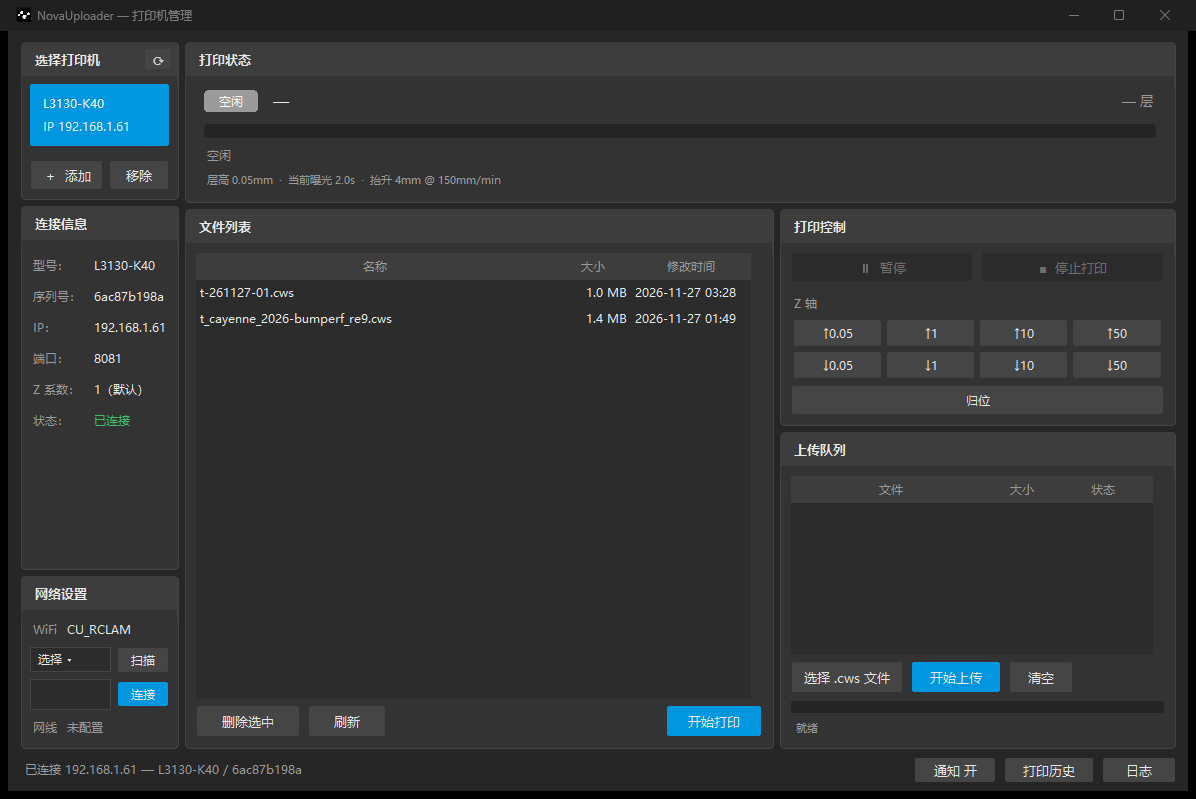
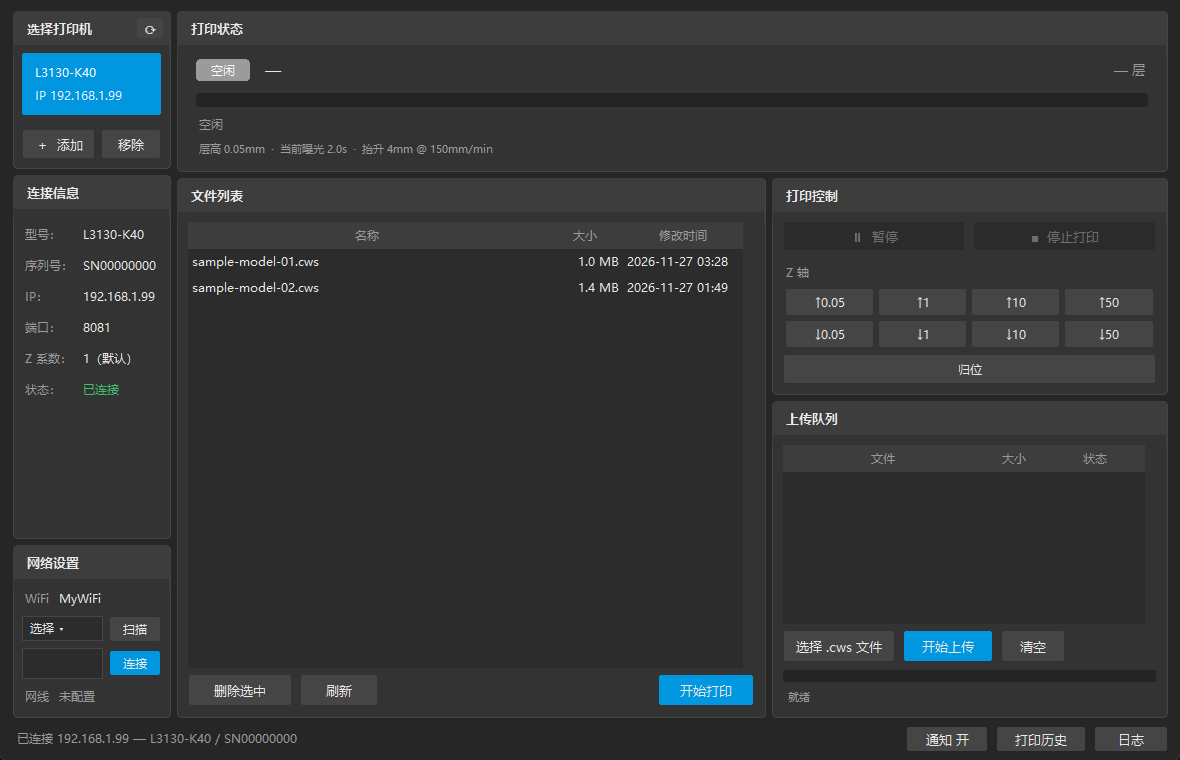
fix: 示例配置与截图改用占位 IP/序列号，避免仓库暴露内网信息（0.6.9）

diff --git a/pc/NovaUploader.py b/pc/NovaUploader.py
@@ -49,7 +49,7 @@ CONFIG_PATH_LEGACY = os.path.join(APP_DIR, "printers.json")
 HISTORY_PATH = os.path.join(DATA_DIR, "history.json")
 HISTORY_LIMIT = 300
 
-APP_VERSION = "0.6.8"
+APP_VERSION = "0.6.9"
 
 # NovaMaker 的图标（64x64 PNG，内嵌以免打包后还要带外部文件）
 ICON_PNG_B64 = (
@@ -100,9 +100,9 @@ def migrate_legacy_config():
 
 DEFAULT_CONFIG = {
     "printers": [
-        {"name": "Whale3 Pro (192.168.1.61)", "ip": "192.168.1.61", "port": 8081},
+        {"name": "我的打印机 (192.168.1.100)", "ip": "192.168.1.100", "port": 8081},
     ],
-    "last": "192.168.1.61",
+    "last": "192.168.1.100",
 }
 
 
@@ -1009,7 +1009,7 @@ class AddPrinterDialog(DarkDialog):
     def _on_ok(self):
         ip = self.ent_ip.get().strip()
         if not re.fullmatch(r"\d{1,3}(\.\d{1,3}){3}", ip):
-            self.lbl_err.configure(text="IP 格式不对，应形如 192.168.1.61")
+            self.lbl_err.configure(text="IP 格式不对，应形如 192.168.1.100")
             return
         if any(int(x) > 255 for x in ip.split(".")):
             self.lbl_err.configure(text="IP 每段必须在 0-255 之间")
@@ -1376,7 +1376,7 @@ class App(tk.Tk):
                 row=r, column=0, sticky="w", pady=int(4 * s))
             val = tk.Label(box, text="—", bg=THEME["card"], fg=THEME["text"],
                            font=(FONT, 9), anchor="w")
-            val.grid(row=r, column=1, sticky="w", padx=(int(7 * s), 0),
+            val.grid(row=r, column=1, sticky="w", padx=(int(4 * s), 0),
                      pady=int(4 * s))
             self.info_val[key] = val
 

diff --git a/android/src/com/rclam/novactl/MainActivity.java b/android/src/com/rclam/novactl/MainActivity.java
@@ -40,7 +40,7 @@ import java.util.concurrent.atomic.AtomicBoolean;
 public class MainActivity extends Activity {
 
     /** 与桌面版 NovaUploader 同代，便于两边对照。 */
-    private static final String APP_VERSION = "0.6.8";
+    private static final String APP_VERSION = "0.6.9";
     private static final int PORT = 8081;
     private static final int POLL_MS = 3000;
     private static final int TIMEOUT_MS = 5000;
@@ -114,7 +114,7 @@ public class MainActivity extends Activity {
             public void onClick(View v) {
                 String v2 = etIp.getText().toString().trim();
                 if (!v2.matches("\\d{1,3}(\\.\\d{1,3}){3}")) {
-                    toast("IP 格式不正确，应形如 192.168.1.61");
+                    toast("IP 格式不正确，应形如 192.168.1.100");
                     return;
                 }
                 ip = v2;
@@ -638,7 +638,7 @@ public class MainActivity extends Activity {
 
     // ---------------- 工具 ----------------
 
-    /** /setting/printerInfo 返回 "型号-序列号"，如 L3130-K40-6ac87b198a。 */
+    /** /setting/printerInfo 返回 "型号-序列号"，如 L3130-K40-XXXXXXXXXX。 */
     private static String prettyDev(String raw) {
         String s = raw == null ? "" : raw.trim();
         if (s.isEmpty()) return "—";

diff --git a/README.md b/README.md
@@ -2,7 +2,7 @@
 
 **简体中文** | [English](README.en.md)
 
-![version](https://img.shields.io/badge/version-0.6.8-blue)
+![version](https://img.shields.io/badge/version-0.6.9-blue)
 ![platform](https://img.shields.io/badge/platform-Windows-blue)
 ![python](https://img.shields.io/badge/python-3.9%2B-3776AB)
 ![license](https://img.shields.io/badge/license-MIT-green)

diff --git a/README.en.md b/README.en.md
@@ -2,7 +2,7 @@
 
 [简体中文](README.md) | **English**
 
-![version](https://img.shields.io/badge/version-0.6.8-blue)
+![version](https://img.shields.io/badge/version-0.6.9-blue)
 ![platform](https://img.shields.io/badge/platform-Windows-blue)
 ![python](https://img.shields.io/badge/python-3.9%2B-3776AB)
 ![license](https://img.shields.io/badge/license-MIT-green)
